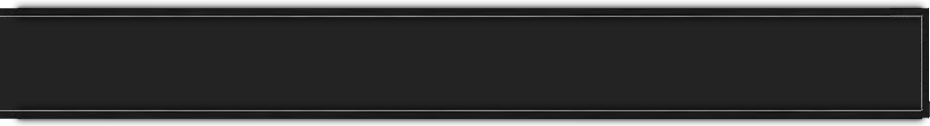
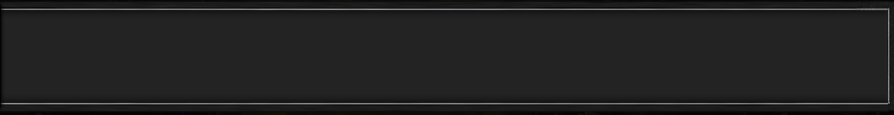
Add live stream to ui with chat, implement part of the service that retrieves the data, still need to work on that a bit

Changed region(s): [[0.0, 0.0, 1.0, 1.0]]

diff --git a/ahgl/static/js/app/app/views/liveStream.html b/ahgl/static/js/app/app/views/liveStream.html
@@ -1,1 +1,29 @@
-hello
+<div ng-controller="LiveStreamCtrl" class="livestream-container">
+    <div class="header"></div>
+    <div class="title-container">
+        <img class="logo" src="{{live_stream_logo}}"/>
+        <div class="title">{{streamTitle}}</div>
+        <div class="currently-playing">Currently Playing</div>
+    </div>
+    <div class="stream-container">  
+        <object type="application/x-shockwave-flash" 
+                height="500" 
+                width="600" 
+                id="live_embed_player_flash" 
+                data="http://www.twitch.tv/widgets/live_embed_player.swf?channel={{channel_name}}" 
+                bgcolor="#000000"
+                class="twitch-container">
+            <param name="allowFullScreen" 
+                   value="true" />
+            <param name="allowScriptAccess" 
+                   value="always" />
+            <param name="allowNetworking" 
+                   value="all" />
+            <param name="movie" 
+                   value="http://www.twitch.tv/widgets/live_embed_player.swf" />
+            <param name="flashvars" 
+                   value="hostname=www.twitch.tv&channel={{channel_name}}&auto_play=true&start_volume=50" />
+        </object>
+        <iframe class="chat-container" frameborder="0" scrolling="no" id="chat_embed" ng-src="{{chat_url}}"></iframe>
+    </div>
+</div>

diff --git a/ahgl/static/js/app/app/styles/liveStream.less b/ahgl/static/js/app/app/styles/liveStream.less
@@ -1,0 +1,54 @@
+.livestream-container {
+    font-family: 'AvianoFutureBold';
+    .header {
+        background-image: url('../images/livestream-header.png');
+        height: 105px;
+        width: 1026px;
+        margin-left: auto;
+        margin-right: auto;
+    }
+    .title-container {
+        color: @bright-red;
+        width: 977px;
+        margin-left: auto;
+        margin-right: auto;
+        img {
+            float: left;
+            margin-top: 5px;
+            margin-right: 5px;
+        }
+        .title {
+            font-size: 26px;
+            text-transform: uppercase;
+        }
+        .currently-playing {
+            color: @dark-red;
+            font-size: 16px;
+            text-transform: uppercase;  
+        }
+    }
+    .stream-container {
+        width: 977px;
+        margin-top: 10px;
+        margin-left: auto;
+        margin-right: auto;
+        border-top: 1px solid @medium-grey;
+
+        .twitch-container, 
+        .chat-container {
+            display: inline-block;
+            height: 500px;
+            margin-top: 15px;
+        }
+
+        .twitch-container {
+            width: 655px;
+            margin-right: 15px;
+            background-color: @light-grey;
+        }
+        .chat-container {
+            width: 300px;
+            background-color: @light-grey;
+        }
+    }
+}

diff --git a/ahgl/static/js/app/app/styles/header.less b/ahgl/static/js/app/app/styles/header.less
@@ -1,22 +1,23 @@
 header {
-    width: 1080px;
+    width: 986px;
+    height: 175px;
     margin-left: auto;
     margin-right: auto;
     .logo {
         display: inline-block;
-        width: 152px;
+        width: 107px;
         height: 212px;
         background-image: url('../images/logo.png');
     }
     .bar {
         display: inline-block;
-        width: 929px;
-        height: 126px;
+        width: 895px;
+        height: 116px;
         position: absolute;
-        top: 25px;
+        top: 32px;
         background-image: url('../images/header-background.png');
         img {
-            width: 175px;
+            width: 167px;
             height: 100px;
             margin: 0 2px;
             cursor: pointer;

diff --git a/ahgl/static/js/app/app/scripts/controllers/liveStream.js b/ahgl/static/js/app/app/scripts/controllers/liveStream.js
@@ -1,0 +1,17 @@
+'use strict';
+
+/**
+ * @ngdoc function
+ * @name ahgl2App.controller:LiveStreamCtrl
+ * @description
+ * # LiveStreamCtrl
+ * Controller of the ahgl2App
+ */
+angular.module('ahgl2App')
+    .controller('LiveStreamCtrl', function ($scope, $sce) {
+        $scope.liveStream = true;
+        $scope.channel_name = 'dubastv';
+        $scope.chat_url = $sce.trustAsResourceUrl('http://twitch.tv/chat/embed?channel=dubastv&amp;popout_chat=false');
+        $scope.live_stream_logo = '../images/live-stream-game.png';
+        $scope.streamTitle = 'Stream Title Here';
+    });

diff --git a/ahgl/static/js/app/app/index.html b/ahgl/static/js/app/app/index.html
@@ -48,6 +48,7 @@
                 <script src="scripts/app.js"></script>
                 <script src="scripts/controllers/main.js"></script>
                 <script src="scripts/controllers/header.js"></script>
+                <script src="scripts/controllers/liveStream.js"></script>
                 <!-- endbuild -->
 </body>
 </html>

diff --git a/ahgl/static/js/app/app/styles/colors.less b/ahgl/static/js/app/app/styles/colors.less
@@ -1,4 +1,6 @@
 @light-grey: #aaaaaa;
+@medium-grey: #676767;
 @dark-grey: #1f1f1f;
 
 @bright-red: rgb(227, 45, 46);
+@dark-red: rgb(131, 35, 37);

diff --git a/ahgl/static/js/app/app/styles/main.less b/ahgl/static/js/app/app/styles/main.less
@@ -13,3 +13,4 @@ body {
 @import 'colors';
 @import 'header';
 @import 'footer';
+@import 'liveStream';

diff --git a/ahgl/api/migrations/0002_auto__add_field_game_live_stream_image_url.py b/ahgl/api/migrations/0002_auto__add_field_game_live_stream_image_url.py
@@ -1,0 +1,31 @@
+# -*- coding: utf-8 -*-
+import datetime
+from south.db import db
+from south.v2 import SchemaMigration
+from django.db import models
+
+
+class Migration(SchemaMigration):
+
+    def forwards(self, orm):
+        # Adding field 'Game.live_stream_image_url'
+        db.add_column('api_game', 'live_stream_image_url',
+                      self.gf('django.db.models.fields.CharField')(default='', max_length=2048),
+                      keep_default=False)
+
+
+    def backwards(self, orm):
+        # Deleting field 'Game.live_stream_image_url'
+        db.delete_column('api_game', 'live_stream_image_url')
+
+
+    models = {
+        'api.game': {
+            'Meta': {'object_name': 'Game'},
+            'id': ('django.db.models.fields.AutoField', [], {'primary_key': 'True'}),
+            'image_url': ('django.db.models.fields.CharField', [], {'max_length': '2048'}),
+            'live_stream_image_url': ('django.db.models.fields.CharField', [], {'max_length': '2048'})
+        }
+    }
+
+    complete_apps = ['api']

diff --git a/ahgl/urls.py b/ahgl/urls.py
@@ -23,13 +23,14 @@ from tournaments.models import Tournament
 
 from django.conf.urls import patterns, url, include
 from rest_framework import routers
-from ahgl.api.views import header
+from ahgl.api.views import header, streams
 
 router = routers.DefaultRouter()
 router.register(r'header', header.HeaderViewSet)
 
 urlpatterns = patterns('',
     url(r'^api/', include(router.urls)),
+    url(r'^api/streams', streams.StreamsAPIView.as_view(), name ='streams_api_view')
 )
 
 urlpatterns += patterns('',

diff --git a/ahgl/api/views/streams.py b/ahgl/api/views/streams.py
@@ -1,0 +1,12 @@
+from ahgl.api.domain import streams
+#
+from rest_framework.views import APIView
+# from ahgl.api.serializers import streams
+from rest_framework.response import Response
+from rest_framework.renderers import JSONRenderer
+
+class StreamsAPIView(APIView):
+
+    def get(self, request, format=None):
+        liveStream = streams.LiveStreams()
+        return Response(liveStream.load('dota 2'))

diff --git a/ahgl/api/domain/streams.py b/ahgl/api/domain/streams.py
@@ -1,0 +1,13 @@
+import requests
+from django.db import models
+
+class LiveStreams(object):
+	_meta = models.Model
+	def __init__(self):
+		self.streams = []
+
+	def load(self, game):
+		payload = { 'q': game }
+		r = requests.get('https://api.twitch.tv/kraken/search/streams', params=payload)
+		return r.json()
+

diff --git a/ahgl/api/models.py b/ahgl/api/models.py
@@ -2,3 +2,4 @@ from django.db import models
 
 class Game(models.Model):
 	image_url = models.CharField(max_length=2048)
+	live_stream_image_url = models.CharField(max_length=2048)
